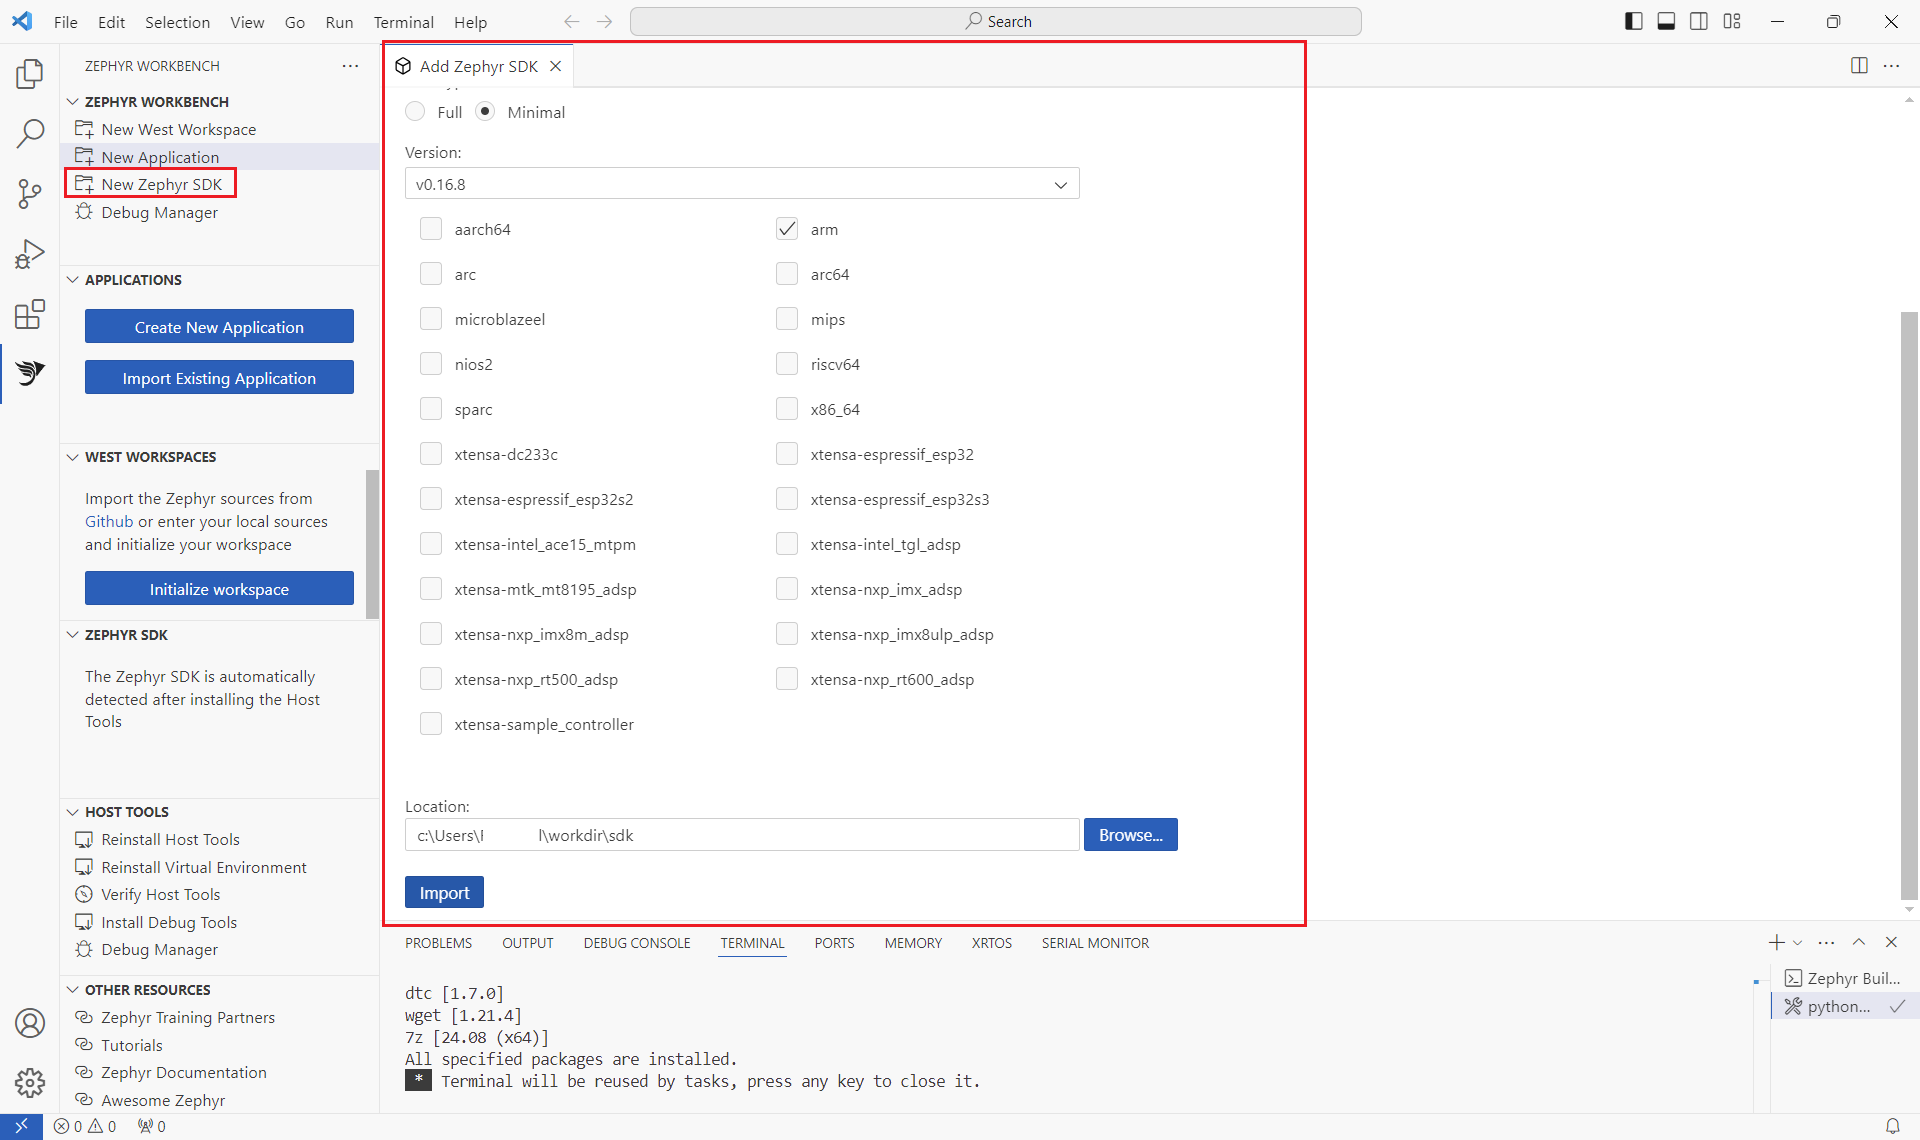
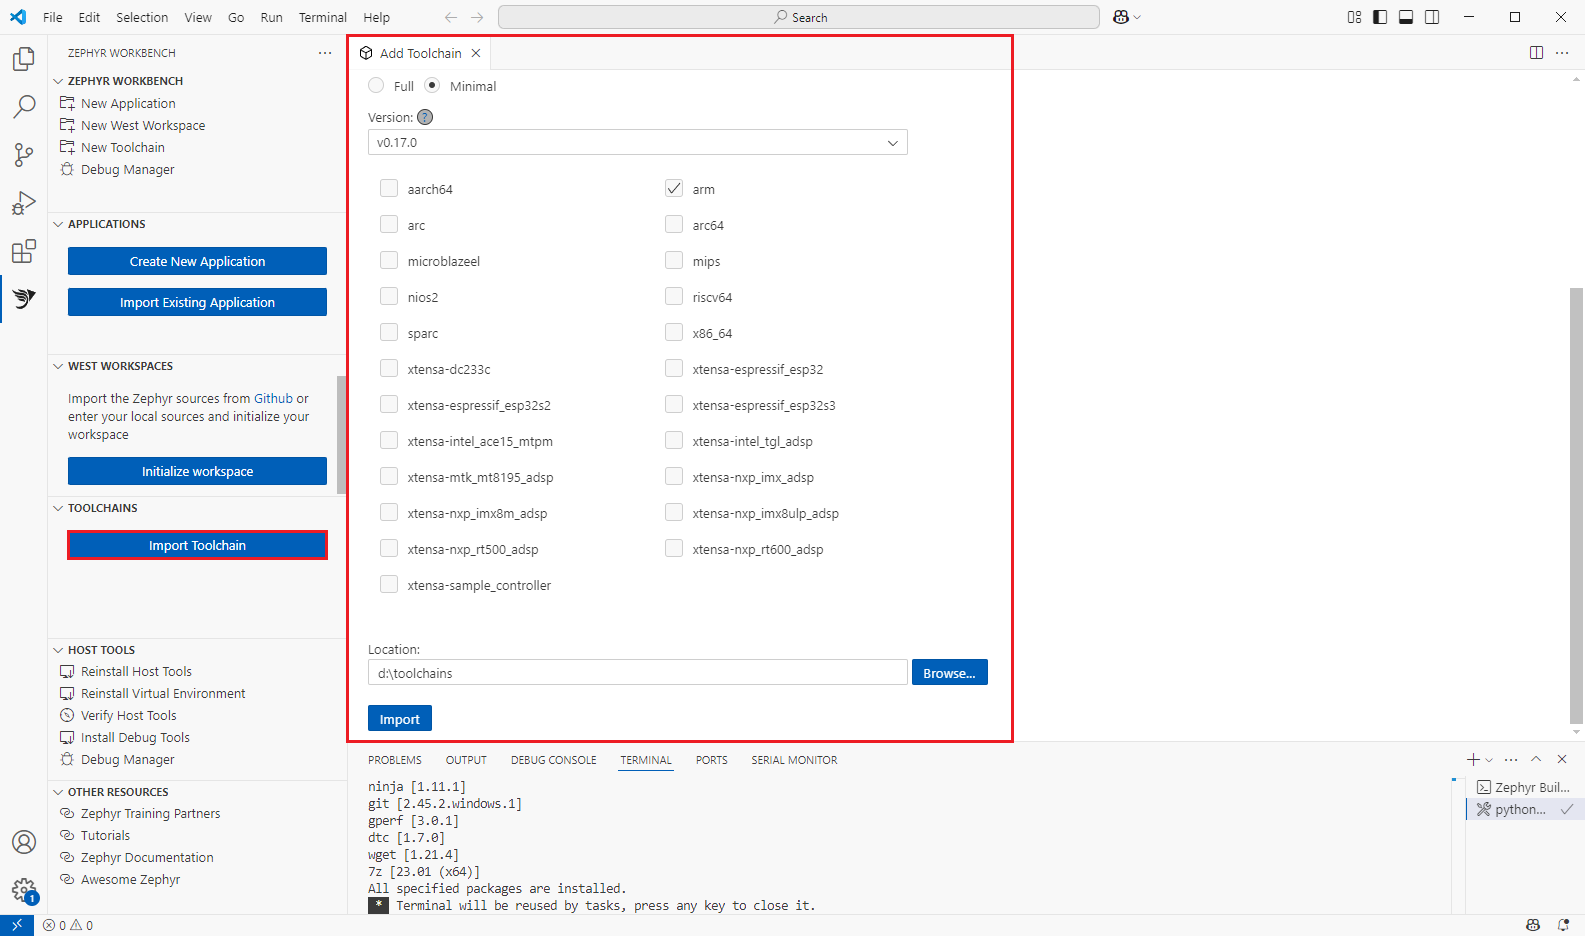
Toolchain page and sysbuild

diff --git a/docs/documentation/sdk.md b/docs/documentation/sdk.md
@@ -2,68 +2,108 @@
 sidebar_position: 4
 ---
 
-# Zephyr SDK
+# Toolchains
 
-The Zephyr Software Development Kit (SDK) contains toolchains for Zephyr’s supported architectures. Zephyr Workbench allows you to import the full SDK or only some components. Alternatively you can also import your own SDK.
+The **Zephyr Software Development Kit (SDK)** provides toolchains for supported architectures. Zephyr Workbench allows you to:
 
-To import a new SDK, click on the "New Zephyr SDK" button.
+- Import full or minimal Zephyr SDKs
+- Register a locally installed SDK
+- Add IAR ARM toolchains
 
-![New Zephyr SDK](/img/zw/sdk/zw_sdk_new.png)
+To get started, click on **Toolchains > Import Toolchain** in the sidebar.
 
-## Source location 
+![Import Toolchain](/img/zw/sdk/zw_sdk_import.png)
 
-- **Official SDK**:
-Import a full or minimal SDK from official sources
-You can select the SDK version (warning some versions might be removed from official sources) and select which toolchains you need.
-If you select "full" SDK, every supported toolchains are installed.
-Enter the directory where to install the SDK.
+---
 
-- **Remote archive**:
-Enter the URL to download the Zephyr SDK and the location to install it
+## Source Location Options
 
-- **Local folder**:
-If you already have a Zephyr SDK installed on your system, you can enter it location to register it into Zephyr Workbench
+You can choose from the following source locations when adding a toolchain:
 
-![New Zephyr SDK](/img/zw/sdk/zw_sdk_import.png)
+### Official SDK
+- Download the SDK from official servers.
+- Select full or minimal installation.
+- Choose the version and architectures.
+- Specify the destination folder.
+
+### Remote Archive
+- Provide a URL pointing to a Zephyr SDK archive.
+- Set the destination directory where it should be extracted.
+
+### Local Folder
+- Register an SDK already installed on your system.
+
+
+---
+
+## IAR ARM Toolchain Support
+
+Zephyr Workbench supports importing the **IAR ARM Toolchain**, which requires additional input fields:
+
+- **Zephyr SDK Path**: A path to an already installed Zephyr SDK on your host system.
+- **Token**: A license token required for IAR tool usage.
+
+:::tip
+The **Download binaries** link opens the [Zephyr IAR GitHub Releases page](https://github.com/iarsystems/zephyr-iar/releases/) in your browser.
+:::
+
+![Zephyr IAR Toolchain Import](/img/zw/sdk/zw_sdk_import_iar.png)
+
+
+:::note
+The Zephyr SDK is still necessary even if the IAR ARM Toolchain is used for building Zephyr applications. This is because tools such as the **Device Tree Compiler (DTC)**, **QEMU**, and **GNU utilities** like the preprocessor and `objcopy` are still required in the build process. The Zephyr SDK provides these components.
+:::
+
+### Steps:
+1. Open the **Add Toolchain** panel.
+2. Select **IAR ARM Toolchain** as the source.
+3. Select the **Zephyr SDK**, **Token**, and **IAR Toolchain folder** location.
+4. Click **Import**.
+
+---
 
 ## Supported Toolchains
 
-On the current version, the supported toolchains are:
-- aarch64-zephyr-elf
-- arc64-zephyr-elf
-- arc-zephyr-elf
-- arm-zephyr-eabi
-- microblazeel-zephyr-elf
-- mips-zephyr-elf
-- nios2-zephyr-elf
-- riscv64-zephyr-elf
-- sparc-zephyr-elf
-- x86_64-zephyr-elf
-- xtensa-dc233c_zephyr-elf
-- xtensa-espressif_esp32_zephyr-elf
-- xtensa-espressif_esp32s2_zephyr-elf
-- xtensa-espressif_esp32s3_zephyr-elf
-- xtensa-intel_ace15_mtpm_zephyr-elf
-- xtensa-intel_tgl_adsp_zephyr-elf
-- xtensa-mtk_mt8195_adsp_zephyr-elf
-- xtensa-nxp_imx_adsp_zephyr-elf
-- xtensa-nxp_imx8m_adsp_zephyr-elf
-- xtensa-nxp_imx8ulp_adsp_zephyr-elf
-- xtensa-nxp_rt500_adsp_zephyr-elf
-- xtensa-nxp_rt600_adsp_zephyr-elf
-- xtensa-sample_controller_zephyr-elf
+The Zephyr SDK includes support for the following architectures:
 
-## Manage Zephyr SDK
+- `aarch64-zephyr-elf`
+- `arc64-zephyr-elf`
+- `arc-zephyr-elf`
+- `arm-zephyr-eabi`
+- `microblazeel-zephyr-elf`
+- `mips-zephyr-elf`
+- `nios2-zephyr-elf`
+- `riscv64-zephyr-elf`
+- `sparc-zephyr-elf`
+- `x86_64-zephyr-elf`
+- `xtensa-dc233c_zephyr-elf`
+- `xtensa-espressif_esp32(_s2/_s3)_zephyr-elf`
+- `xtensa-intel_ace15_mtpm_zephyr-elf`
+- `xtensa-intel_tgl_adsp_zephyr-elf`
+- `xtensa-mtk_mt8195_adsp_zephyr-elf`
+- `xtensa-nxp_(imx/imx8m/ulp/rt500/rt600)_adsp_zephyr-elf`
+- `xtensa-sample_controller_zephyr-elf`
 
-After importing a Zephyr SDK, it appears in the **ZEPHYR SDK** panel on the left. SDKs are registered globally in VS Code settings, making them accessible across any VS Code instance.
+---
 
-![Manage Zephyr SDK](/img/zw/sdk/zw_sdk_manage.png)
+## Manage Toolchains
 
-In the **ZEPHYR SDK** panel, you can:
+Once imported, toolchains are listed in the **TOOLCHAINS** panel in the sidebar. They are registered globally in VS Code and are accessible across all projects.
 
-- **Add Zephyr SDK**: Register a new SDK to the list.
-- **Remove Zephyr SDK**: Unregister the SDK from the list without deleting its files.
-- **Delete from Disk**: Permanently delete the SDK folder from your system (this action is irreversible).
+![Manage Toolchains](/img/zw/sdk/zw_sdk_manage_iar.png)
 
+Available actions:
 
+- **Add Toolchain**: Register another SDK or toolchain.
+- **Remove Toolchain**: Unregister it without deleting files.
+- **Delete Toolchain**: Permanently remove its files from disk.
 
+:::tip
+When an **IAR ARM Toolchain** is expanded in the list, the **associated Zephyr SDK** it relies on is also displayed for clarity.
+:::
+
+---
+
+:::note
+Toolchains are shared across all applications and workspaces within Zephyr Workbench.
+:::

diff --git a/docs/documentation/configuration/sysbuild.md b/docs/documentation/configuration/sysbuild.md
@@ -1,0 +1,17 @@
+---
+sidebar_position: 5
+---
+
+# Sysbuild
+
+To enable or disable Sysbuild for your application, right-click on the application > Configure > Sysbuild > Enable (or Disable).
+
+![Enable or Disable Sysbuild](/img/zw/configuration/zw_enable_disable_sysbuild.png)
+
+Enabling Sysbuild activates the Zephyr system build, allowing the application to be built with multiple CMake projects in a single invocation. This is particularly useful when working with MCUboot, multi-image builds, or additional subsystems.
+
+Disabling it will return the application to a single-image build workflow.
+
+:::tip
+Only enable Sysbuild if your project structure requires it (e.g., multi-image setups or MCUboot integration).
+:::

diff --git a/docs/documentation/configuration/change-toolchain.md b/docs/documentation/configuration/change-toolchain.md
@@ -1,0 +1,19 @@
+---
+sidebar_position: 6
+---
+
+# Change Toolchain
+
+To switch the toolchain used for building an application, right-click on the application > Configure > Change Toolchain.
+
+![Change Toolchain](/img/zw/configuration/zw_change_toolchain.png)
+
+A list of available toolchains will appear in a quick pick menu. Select the desired toolchain from the list, then press `ENTER` to confirm your choice.
+
+![Select Toolchain](/img/zw/configuration/zw_change_toolchain_choice.png)
+
+The selected toolchain will be used for all subsequent builds of the application.
+
+:::tip
+Ensure that the selected toolchain is compatible with the board and Zephyr version in use.
+:::

diff --git a/docs/documentation/configuration/change-pristine.md b/docs/documentation/configuration/change-pristine.md
@@ -1,5 +1,5 @@
 ---
-sidebar_position: 5
+sidebar_position: 7
 ---
 # Change pristine build option
 
